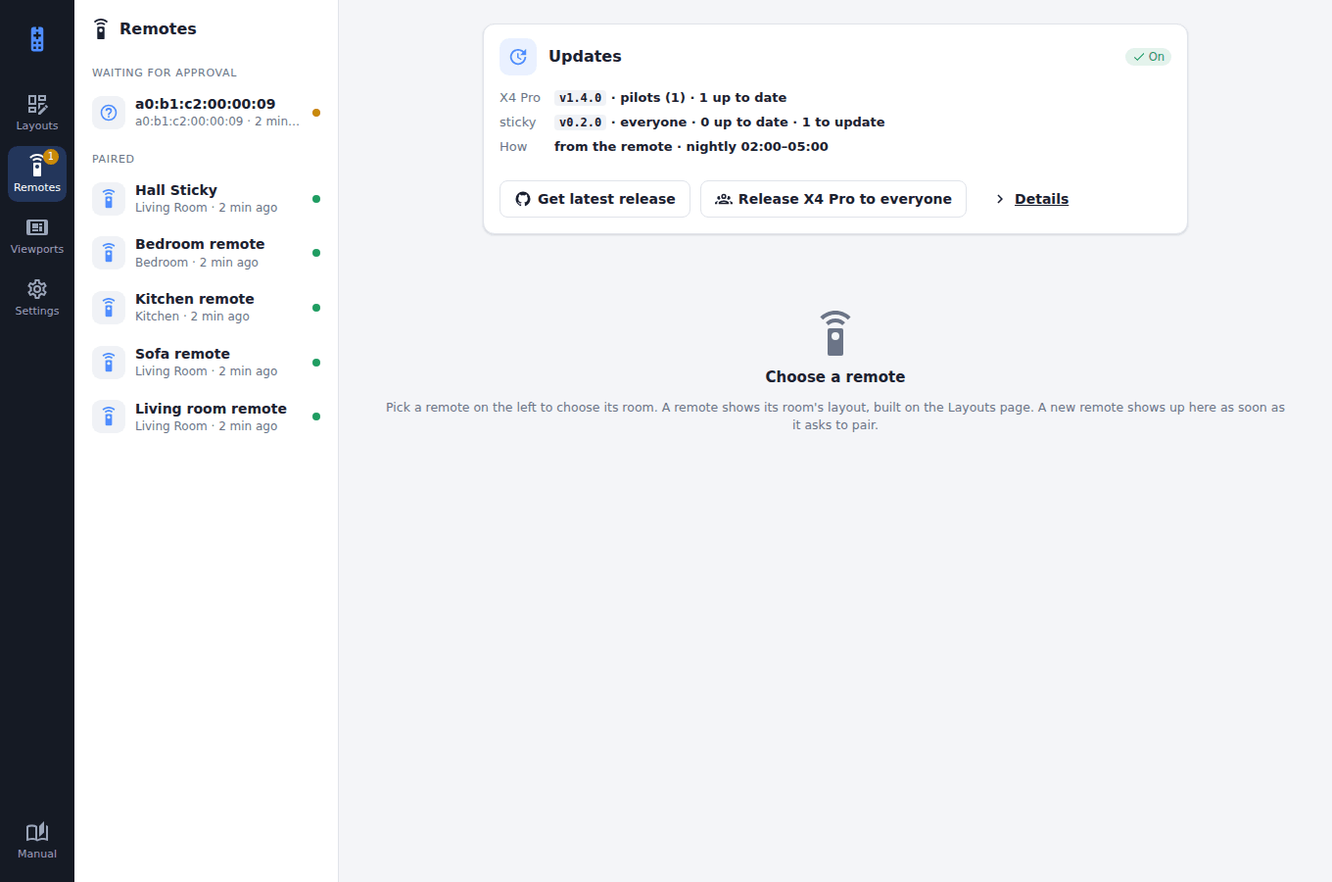
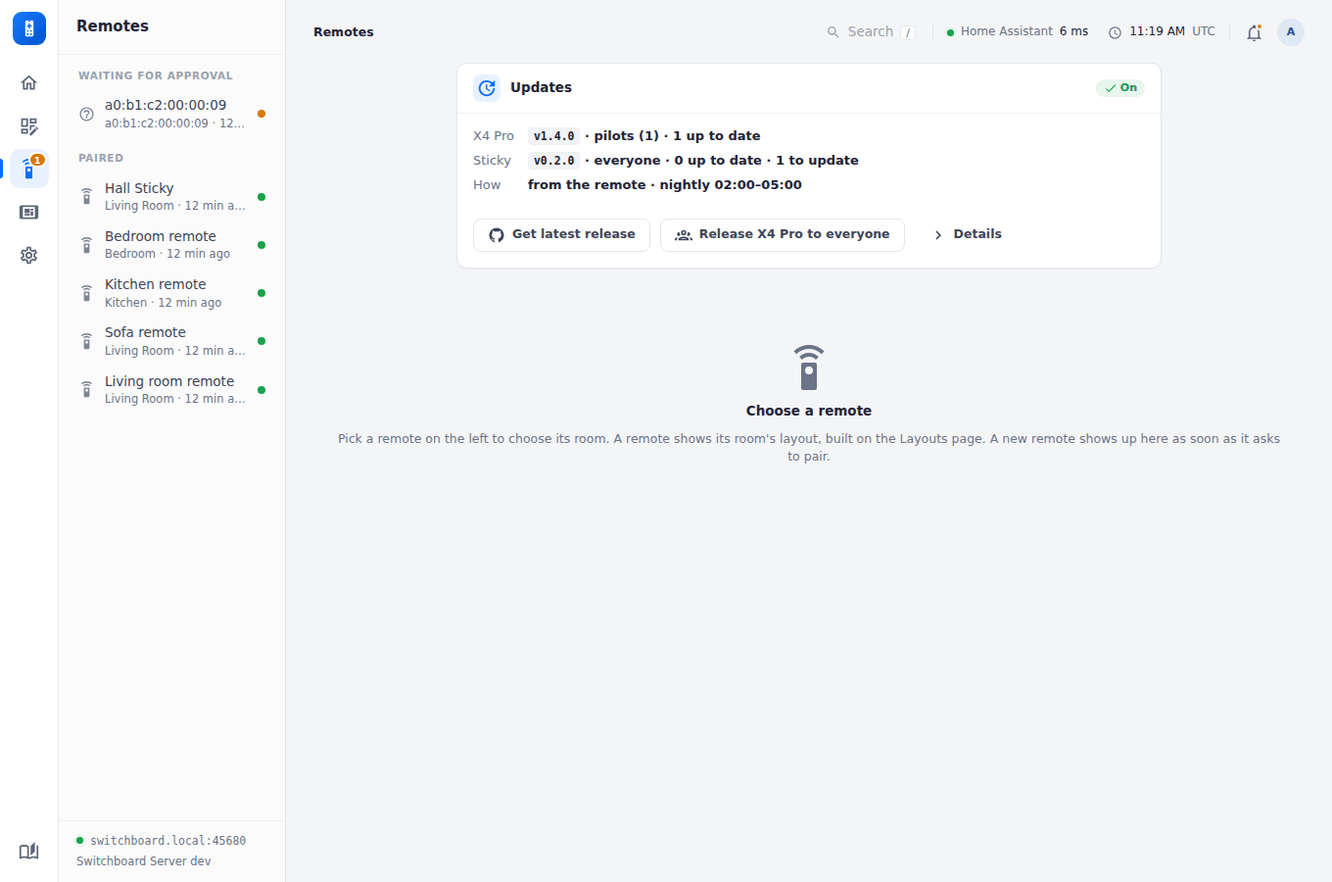
Manual: the new admin UI
Every admin screenshot is retaken from the new UI, and the pages that
describe it are rewritten:

- Home: finding your way around (the rail, each section's column of
  links, the page bar and search), and the dashboard's figures, needs
  attention with its buttons, firmware rollout and the devices table.
- Remote layouts: the pages as a list beside the picked page's settings
  and its live preview; Quick Access and On the remote as parts of
  their own.
- Viewports: the builder, with screens and timing on the left, the
  screen's name, icon and template above its preview, sections as
  lists per column, and a section's settings in a drawer.
- Settings: the three groups, the new Pairing and About pages.
- Updates: the switch, Sources and Get latest releases at the top, and
  the Releases, Devices, Rules and Builds cards.

Settings pages are named as the UI now names them throughout
(Firmware updates, Clock and time zone, Wi-Fi networks, Pairing).

Claude-Session: https://claude.ai/code/session_012u7Tsk3WmSPsMgQDKQsdJ4

diff --git a/docs/manual/server/viewports.md b/docs/manual/server/viewports.md
@@ -2,9 +2,25 @@
 
 A viewport is a colour wall-mounted e-ink display, for example the reTerminal E1002 kitchen panel or a sign beside a meeting room door, running [Switchboard Viewport](../viewport/setup.md). It pairs like a remote but registers as `"type": "viewport"`. The device only draws. Its whole UI is a **viewport layout** (a "dashboard" in the API and data folder). It's built on the Layouts page, before or after any display exists, and assigned to one or more displays on their Viewports page. A display without a layout shows "not set up". Viewports saved before layouts were separate move into a layout of their own automatically at startup.
 
-<figure class="shot"><img src="../images/admin/viewport-layout.png" alt="Building a viewport layout"><figcaption>The kitchen panel's layout in the builder: its screens, then the selected screen's sections beside a live preview from Home Assistant.</figcaption></figure>
+<figure class="shot"><img src="../images/admin/viewport-layout.png" alt="Building a viewport layout"><figcaption>The kitchen panel's layout in the builder: its screens and timing on the left; the picked screen's name, icon and template above its live preview, and each column's sections below.</figcaption></figure>
 
-- **Carousel.** The screens the display's buttons step through, in order (left previous, middle next, the green one home to the first), each with an icon for the footer's carousel marks. Between presses it stays on the current screen and just refreshes it. Optionally, every N minutes (30 by default) it can move to the next screen or go back to the first.
+## The builder
+
+Open a viewport layout from **Layouts**. On the left:
+
+- **Screens:** the screens the display steps through. Drag a row to reorder it, switch one off to skip it, and use its **⋯** menu to move, duplicate or delete it. **Add a screen** adds a sections screen, a meeting room or a room finder (up to 12).
+- **Timing:** what the display does between presses, how often it refreshes, on the clock or not, and quiet hours (below).
+
+On the right, the picked screen. Its **name**, **icon** (its mark in the display's footer) and **template** (Sidebar, Two, Three or Single columns) sit in one row just above its live preview. Under the preview, each column is a list of its sections, headed with its width on the 800-pixel panel (*Sidebar · 250 px*). Drag a section to reorder it within its column; its **⋯** menu moves it to another column, duplicates or removes it. **Add a section** opens the list of types. A meeting room or room finder screen has its own settings under the preview instead.
+
+<figure class="shot"><img src="../images/admin/viewport-layout-section.png" alt="A section's settings in the drawer"><figcaption>Click a section and its settings open in a drawer at the side; the preview outlines it. Esc closes the drawer.</figcaption></figure>
+
+The layout's column also has **Thresholds** (when values change colour: battery critical and low, an imminent departure, recent motion, the climate tolerance) and **Start from or import**, the displays using the layout, and the other layouts. **Save** keeps your changes, and displays pick them up at their next refresh; **Discard** throws them away.
+
+## What a layout holds
+
+
+- **Screens and timing.** The screens the display's buttons step through, in order (left previous, middle next, the green one home to the first), each with an icon for the footer's carousel marks. Between presses it stays on the current screen and just refreshes it. Optionally, every N minutes (30 by default) it can move to the next screen or go back to the first.
 - **Quiet hours.** Overnight (or any span), and all weekend if you like (for an office), the display wakes only every 30, 60, 120 or 240 minutes, and shows a bed icon in its footer. See [Buttons, refresh and sleep](../viewport/buttons.md#quiet-hours).
 - **Screens** come in two kinds:
   - **Sections.** A layout (sidebar + main, two columns, three columns, or a single column) whose columns hold any sections, in any order. The same type can appear any number of times, each with its own settings. The types:
@@ -33,7 +49,7 @@ A viewport is a colour wall-mounted e-ink display, for example the reTerminal E1
     | Spacer | nothing: a gap of the height you set (in px), to move the sections under it down the column, e.g. the home battery to the bottom of the sidebar |
     | Announcements | the newest items of a company RSS or Atom feed (intranet news, SharePoint, a blog): headline, short summary, when posted. The server reads the feed, at most every 10 minutes, and keeps the last good copy if it's down |
 
-  The kitchen dashboard (**Start from… → Kitchen dashboard**) is the panel's own Status, Heating and Security; the demo's kitchen panel adds Energy and Presence. As the display draws them (see [Viewport screens](../viewport/screens.md)):
+  The kitchen dashboard (**Start from or import → Kitchen dashboard**) is the panel's own Status, Heating and Security; the demo's kitchen panel adds Energy and Presence. As the display draws them (see [Viewport screens](../viewport/screens.md)):
 
   <div class="shots wide">
     <figure><div class="panel"><img src="../images/viewport/device/kitchen-panel-status.png" alt="Status"></div><figcaption>Status</figcaption></figure>
@@ -54,7 +70,7 @@ A viewport is a colour wall-mounted e-ink display, for example the reTerminal E1
 
 **Conditional sections.** Any section can show only some of the time: *Now playing* only while one of its players is playing, or any section only while an entity matches (e.g. the alarm panel section only while armed). A hidden section is simply left out, so the rest of its column closes up; a calendar in the same column shrinks to fewer lines (*Lines while a conditional section shows*, default 2) to make room while it's there. While a conditional section shows, the display wakes every few minutes (3 by default) to keep it current, and goes back to its normal refresh once it's gone — a viewport is on battery, so a section appears at the next wake after its condition starts, not the instant it does. The server does all of this: the display only draws what it's sent.
 
-The layout builder shows a live 800×480 preview of each screen, in the panel's six colours and with its own colour weather art, from Home Assistant's current state and including unsaved changes. **Start from…** loads the kitchen panel's defaults or a meeting-room sign, or imports an existing panel's own settings.
+The layout builder shows a live 800×480 preview of each screen, in the panel's six colours and with its own colour weather art, from Home Assistant's current state and including unsaved changes. **Start from or import** loads the kitchen panel's defaults or a meeting-room sign, or imports an existing panel's own settings.
 
 **The server does all the evaluating.** `GET /api/viewports/me/state` returns every screen's finished values: colour indices (0 white, 1 black, 2 red, 3 yellow, 4 green, 5 blue), which icon to draw, alert sentences, times, countdowns and graph buckets. So the device needs no Home Assistant template sensors and no rules of its own. Per refresh, the server makes one `GET /api/states` for every entity. It adds only what the screens need beyond that — weather forecasts, calendar events, and one history request per energy graph — all in parallel. Calendar links are read by the server itself (each at most every 2 minutes), so a layout made only of meeting rooms on calendar links needs no Home Assistant at all.
 

diff --git a/docs/manual/server/remote-layouts.md b/docs/manual/server/remote-layouts.md
@@ -2,21 +2,31 @@
 
 Every UI is defined on the server, before any device exists: dumb hardware, server control. A device is only ever *assigned* one: a remote to a room, a viewport to a [viewport layout](viewports.md).
 
-<figure class="shot"><img src="../images/admin/layouts.png" alt="The Layouts page"><figcaption><b>Layouts</b>: remote layouts (one per room) at the top, viewport layouts below, each with the devices using it.</figcaption></figure>
+<figure class="shot"><img src="../images/admin/layouts.png" alt="The Layouts page"><figcaption><b>Layouts</b>: remote layouts (one per room) and viewport layouts, each with the devices using it, and a row at the bottom of each to create one.</figcaption></figure>
+
+The **Layouts** column lists every layout, so any is a click away. Under **Office** are [adding many meeting rooms](../viewport/office.md#putting-up-many-at-once) and approving the displays waiting to pair, together. **Import** loads a room from a JSON file (a room's editor downloads one).
 
 A **remote layout** is one room: its Home Assistant entities, one card per page, and what its remotes show. Entity fields search Home Assistant as you type (through the server, which holds the token), show each entity's state, flag ids Home Assistant doesn't know, and fill in names, icons and which light controls a light supports. With Home Assistant unreachable they're plain text boxes.
 
-## The carousel
-
-<figure class="shot"><img src="../images/admin/remote-layout-carousel.png" alt="The Carousel card"><figcaption>The pages the room's remotes show, in order. Drag to reorder; switch one off to skip it; click one to set it up.</figcaption></figure>
-
-The same card sets how often remotes refresh, and **On the clock**: a 15, 30 or 60 minute refresh lands on the hour and its halves or quarters, each remote a few seconds after the last.
-
 ## The pages
 
-Each page has its own card: the Status page's weather and indoor climate, then lighting, blinds, music, TV, Xbox, the receiver and climate.
+<figure class="shot"><img src="../images/admin/remote-layout.png" alt="A remote layout"><figcaption>A room's remote layout: its pages on the left, the picked page's settings in the middle, and that page as a remote in the room would show it now.</figcaption></figure>
 
-<figure class="shot"><img src="../images/admin/remote-layout-lighting.png" alt="The Lighting card"><figcaption>Lighting: the room's light group and which controls it has, each light, and the scenes.</figcaption></figure>
+Opening a room shows its pages: what every remote in the room swipes through, in order.
+
+- **Reorder** a page by dragging its row, or with the arrows on the picked row.
+- **Switch a page off** to skip it. Switched-off pages are listed under **Off**; switching one back on adds it to the end. Status is always on.
+- **Click a page** to set it up beside the list. A warning under a page's name says what it's missing, such as *No lights in this room*.
+
+The preview on the right is the picked page as a remote in this room would draw it, from the room as it stands in the editor (saved or not) and Home Assistant's state now. Changes show in it within a second.
+
+The room's column also has **Quick Access** and **On the remote** (below), the remotes in the room, and the other layouts. **Save** keeps your changes; **Discard** throws them away. The download button saves the room as JSON.
+
+## What each page needs
+
+Each page has its own settings: the Status page's weather and indoor climate, then lighting, blinds, music, TV, Xbox, the receiver and climate.
+
+<figure class="shot"><img src="../images/admin/remote-layout-lighting.png" alt="The Lighting card"><figcaption>Lighting picked: the room's light group and which controls it has, each light, and the scenes, with the Lighting page beside them.</figcaption></figure>
 
 - **Lighting:** a group for the whole room, with brightness, colour temperature, colour and effects switched on as the lights support them, then single lights and scenes, each with an optional icon.
 - **Blinds:** a group for the whole room, then each blind.
@@ -26,18 +36,16 @@ Each page has its own card: the Status page's weather and indoor climate, then l
 - **Receiver:** an Enigma2 box's media player and up to six favourite channels. It works from Home Assistant's Enigma2 integration alone (channel, programme on now, and the channel's picon if the integration's "Use channel icon" is on). Give the room the box's address (its OpenWebif, such as `http://192.168.1.50` or `http://root:password@vu.local`) and the server also reads the programme on next and each favourite's picon; **Check** shows what the box reports. The address stays on the server: remotes never see it.
 - **Climate:** the thermostat, and any other temperature sensors to show.
 
-## Settings on the remote
+## On the remote
 
-Under **Refresh & settings**, **Developer menu** (on by default) says whether the room's remotes have the Developer menu in their Settings: the pixel grid, stay awake, the Quick Access strips switch, the button checker, the error screens and the hard reset. Switch it off for remotes that aren't for tinkering. Hidden, those switches stop counting too, so nobody can leave a remote awake, or with a grid on it, by a switch they can't get back to. A remote customised on its own page has its own switch. It takes effect at each remote's next refresh.
+<figure class="shot"><img src="../images/admin/remote-layout-settings.png" alt="On the remote"><figcaption><b>On the remote</b>: refresh, the Developer menu, and the room's connection.</figcaption></figure>
+
+**Refresh** sets how often the room's remotes wake to fetch new state (every 15, 30 or 60 minutes); less often means a longer battery. **On the clock** lands each refresh on the hour and its halves or quarters, each remote a few seconds after the last.
+
+**Developer menu** (on by default) says whether the room's remotes have the Developer menu in their Settings: the pixel grid, stay awake, the Quick Access strips switch, the button checker, the error screens and the hard reset. Switch it off for remotes that aren't for tinkering. Hidden, those switches stop counting too, so nobody can leave a remote awake, or with a grid on it, by a switch they can't get back to. A remote customised on its own page has its own switch. It takes effect at each remote's next refresh.
 
 ## Quick Access
 
-<figure class="shot"><img src="../images/admin/remote-layout-quick-access.png" alt="The Quick Access card"><figcaption>The buttons a Home tap shows on the remote.</figcaption></figure>
+<figure class="shot"><img src="../images/admin/remote-layout-quick-access.png" alt="The Quick Access card"><figcaption><b>Quick Access</b>: the buttons a Home tap shows on the remote, with the screen beside them.</figcaption></figure>
 
 Each button opens a page, and can have a quick action in its bottom strip: **toggle** an entity, or **run** a Home Assistant service (with optional JSON data). Without any buttons, remotes show the built-in Jump to grid. See [Quick Access](../remote/navigation.md) for how they look on the remote.
-
-## Screen previews
-
-<figure class="shot"><img src="../images/admin/remote-layout-previews.png" alt="Screen previews"><figcaption>What a remote in this room would show, page by page, from the room as it stands in the editor (saved or not) and Home Assistant now.</figcaption></figure>
-
-At the bottom of the editor, a preview of each page, close to what the remote draws. Click one to jump to its card.

diff --git a/docs/manual/server/remote-updates.md b/docs/manual/server/remote-updates.md
@@ -1,8 +1,10 @@
 # Updates (over the air)
 
-**Settings → Updates** sends new firmware to remotes and displays, and to any other device that asks, over Wi-Fi. It's **off until you switch it on**.
+**Settings → Firmware updates** sends new firmware to remotes and displays, and to any other device that asks, over Wi-Fi. It's **off until you switch it on**.
 
-<figure class="shot"><img src="../images/admin/settings-updates.png" alt="Settings, Updates"><figcaption><b>Settings → Updates</b>: each board's release and how it rolls out, and every device's state.</figcaption></figure>
+<figure class="shot"><img src="../images/admin/settings-updates.png" alt="Settings, Updates"><figcaption><b>Settings → Firmware updates</b>: each board's release, its stage and how many have it; every device's state, and the pilots; the rules; and the builds.</figcaption></figure>
+
+The switch at the top turns updates on and off. Beside it, **Sources** opens the list of GitHub repositories, and **Get latest releases** adds the newest release from each.
 
 ## Boards
 
@@ -16,16 +18,18 @@ Builds and remotes from before boards count as `x4pro`.
 
 ## Releasing
 
-1. **Add a build**: upload a `switchboard-<board>-app-<version>.bin`, or pick a release from one of the **GitHub repositories** listed on the page.
+<figure class="shot"><img src="../images/admin/settings-updates-sources.png" alt="Firmware sources"><figcaption><b>Sources</b>: the repositories releases come from. <b>Pick a release…</b> lists one repository's releases to add one.</figcaption></figure>
+
+1. **Add a build**: press **Get latest releases**, pick one release under **Sources → Pick a release…**, or **Upload .bin** a `switchboard-<board>-app-<version>.bin` on the Builds card.
    - The list starts with the Switchboard firmware and [Switchboard Viewport](../viewport/updates.md) (`e1002`). Add others as `owner/name` or their GitHub URL: a fork, or the repository of another kind of device.
    - A release carries `switchboard-<board>-app-<version>.bin` and its `.sha256` for each board it builds (older ones, `switchboard-app-<version>.bin`, are the X4 Pro's). Every image is checked against its published checksum and against the board and version inside it; if any fails, none of the release is added.
-   - **Get latest release** checks every repository in the list.
+   - **Get latest releases** checks every repository in the list, top first; the arrow in **Sources** moves one to the top.
    - Only listed repositories are ever read, and only when you press a button.
    - The server only accepts a Switchboard app image for an ESP32 chip that fits the update slot, and takes the board and version from the image itself. A build from uncommitted changes (`-dirty`) is refused.
-2. **Choose each board's release**: the version its devices should run. An older build rolls them back to it.
-3. **Pilot first**: tick a device or two as pilots. A new release goes only to that board's pilots. When they've updated and still work, press **Release to everyone** for that board.
-4. **How devices install it**: from **Settings → Device info → Check for update** on the remote (can be switched off here), and/or **on a schedule**: during a window you set, on a device's normal timer wake.
-5. **Update now**: while devices are still due a release, the Home page's Devices card has **Update N remotes to vX now**, one row per board (named when there's more than one). Each of them installs it at its next timer wake (within its refresh interval), whatever the schedule, and even with no schedule set. It keeps to the minimum battery, and to the board's stage: while the release is with the pilots the button updates just them, and **Update all N now (skip pilot)** releases it to everyone in the same step (after asking), so every device of that board not on it installs it at its next wake. A device that tries and fails isn't asked again at every wake; press the button again to retry. **Cancel** takes it back, and choosing another release clears it. Needs remote firmware that knows about it (later than v0.2.3); older remotes keep to the schedule.
+2. **Choose each board's release** in the Releases table: the version its devices should run. An older build rolls them back to it. When there's a newer build than the release, the row offers **Send vX to pilots**.
+3. **Pilot first**: tick a device or two as pilots in the Devices table. A new release goes only to that board's pilots. When they've updated and still work, press **Release to everyone** for that board.
+4. **How devices install it** (the Rules card): from **Settings → Device info → Check for update** on the remote (**From the remote**), and/or **on a schedule**: during a window you set, on a device's normal timer wake.
+5. **Update now**: while devices are still due a release, the Home page's **Firmware rollout** card has **Update N remotes to vX now**, one row per board (named when there's more than one). Each of them installs it at its next timer wake (within its refresh interval), whatever the schedule, and even with no schedule set. It keeps to the minimum battery, and to the board's stage: while the release is with the pilots the button updates just them, and **Update all N now (skip pilot)** releases it to everyone in the same step (after asking), so every device of that board not on it installs it at its next wake. A device that tries and fails isn't asked again at every wake; press the button again to retry. **Cancel** takes it back, and choosing another release clears it. Needs remote firmware that knows about it (later than v0.2.3); older remotes keep to the schedule.
 
 On the device:
 - **Battery:** it needs the minimum battery set here (30% by default).
@@ -49,7 +53,7 @@ A device from another repository takes part by doing what the Switchboard firmwa
 | **Report** | `POST /api/firmware/report` with `{version, from, ok, error, board}` after each attempt. |
 | **Releases** | Publish `switchboard-<board>-app-<tag>.bin` and `switchboard-<board>-app-<tag>.bin.sha256` (from `sha256sum`) on each GitHub release, so this server can add them. |
 
-Then add its repository to the list here. Its builds show under its own board, and its devices under Devices.
+Then add its repository under **Sources**. Its builds show under its own board, and its devices under Devices.
 
 ## Where builds are kept
 

diff --git a/docs/manual/viewport/office.md b/docs/manual/viewport/office.md
@@ -86,17 +86,17 @@ For signs that need to last longer, turn the timeline off, or refresh every hour
 
 ## Putting up many at once
 
-1. **Set the time zone.** With no Home Assistant, choose the office's in **Settings → Clock → Time zone**. Otherwise the server runs on UTC and every sign's times are out; the Home page warns about this.
+1. **Set the time zone.** With no Home Assistant, choose the office's in **Settings → Clock and time zone**. Otherwise the server runs on UTC and every sign's times are out; the Home page warns about this.
 2. **Install the firmware** on each display from the [browser flasher](../../). Do it once per display, over USB.
 3. **Put each one on the Wi-Fi.** Each display shows two QR codes; join its hotspot with a phone and pick the network ([Setting up](setup.md#2-connect-it-to-wi-fi)). This takes about a minute per display.
    - Displays need a network with a password (WPA2 or WPA3 Personal). They can't sign in to enterprise Wi-Fi (802.1X). Many offices have an IoT or devices network for this.
    - The network must be able to reach the server. If it's a separate network (VLAN), multicast usually doesn't cross to the server's, so the display can't find the server by itself. Type the server's address in **Switchboard Server** on the setup page, for example `10.20.0.5:45678`.
-   - Once paired, displays also use every network saved under the server's **Settings → Wi-Fi**.
+   - Once paired, displays also use every network saved under the server's **Settings → Wi-Fi networks**.
 4. **Write down each display's MAC address.** A display shows it on its screen while it waits to be approved.
-5. **Add the rooms.** On the **Layouts** page, under **Viewport layouts**, press **Add many meeting rooms** and paste the list of rooms: one per line, columns straight from a spreadsheet.
+5. **Add the rooms.** Under **Layouts**, press **Add many meeting rooms** (in the column, under **Office**) and paste the list of rooms: one per line, columns straight from a spreadsheet.
 6. **Hang them up.** Each sign starts as soon as it's approved, or at its next check (every 2 minutes) if it was already waiting.
 
-<figure class="shot"><img src="../images/admin/meeting-rooms-bulk.png" alt="Add many meeting rooms"><figcaption><b>Layouts → Add many meeting rooms</b>: each line read as you type, and anything wrong with it shown before anything is made.</figcaption></figure>
+<figure class="shot"><img src="../images/admin/meeting-rooms-bulk.png" alt="Add many meeting rooms"><figcaption><b>Layouts → Office → Add many meeting rooms</b>: each line read as you type, and anything wrong with it shown before anything is made.</figcaption></figure>
 
 Each line is a room's name, then its calendar, then optionally an occupancy sensor and the display's MAC address. After the name, the columns can be in any order: the server recognises a calendar link, a `calendar.` entity, a sensor and a MAC address. Separate them with commas, semicolons or tabs; a header row is skipped.
 
@@ -116,7 +116,7 @@ Switch on **Approve the listed displays now** and each one starts the moment it 
 
 Running it again with the same room names updates those rooms' signs rather than making new ones. That's the way to change many calendars at once, or to add a room to everyone's list. It sets each sign's room and other-rooms screens afresh, with the office timing; any other screens you've added to a sign stay.
 
-**Displays already waiting.** When two or more displays are waiting to pair, the **Layouts** page lists them together. Give each a name and a layout, and approve them in one go. Each display shows its MAC address on its screen while it waits, so you can tell which is which.
+**Displays already waiting.** **Layouts → Office → Displays waiting** lists every display waiting to pair (the Layouts page shows them too, when there are two or more). Give each a name and a layout, and approve them in one go. Each display shows its MAC address on its screen while it waits, so you can tell which is which.
 
 **Why a layout per room.** Signs that look the same still need a layout each, because each has its own room's calendar. The room list makes them for you. To change something on every sign, such as the status words, edit the signs' layouts; to change the rooms, run the list again.
 
@@ -124,4 +124,4 @@ Running it again with the same room names updates those rooms' signs rather than
 
 - **Keep the server on the office network.** Don't expose it to the internet ([Security](../server/security.md)): it holds the calendar links, and approves displays.
 - **Approving ahead is a trade-off.** A display approved by MAC address before it connects saves a trip to the server. But anyone who copies that address onto another device on the same network gets what that sign shows: the room's bookings, no more. Only approve ahead on a network you control, or approve each display when it appears.
-- **No new devices.** To stop new devices asking to pair once the signs are up, switch off **Settings → Security → Accept new devices**. Displays you've listed still connect.
+- **No new devices.** To stop new devices asking to pair once the signs are up, switch off **Settings → Pairing → New devices**. Displays you've listed still connect.

diff --git a/docs/manual/server/settings.md b/docs/manual/server/settings.md
@@ -1,6 +1,14 @@
 # Settings
 
-Settings are shared by every room and device. The server's clock is shown beside your browser's on every tab.
+Settings are shared by every room and device. Their pages are listed down the Settings column in three groups:
+
+| Group | Pages |
+|---|---|
+| **Connections** | Home Assistant, Wi-Fi networks, Clock and time zone |
+| **Devices** | Firmware updates, Pairing, Theme |
+| **Server** | Security, Account, About |
+
+The server's time and time zone are always shown at the top of the page; click them for the Clock page.
 
 ## Home Assistant
 
@@ -8,34 +16,44 @@ Settings are shared by every room and device. The server's clock is shown beside
 
 The address, port and long-lived access token the server uses to reach Home Assistant. The server fetches Home Assistant's state for every device; a remote only asks Home Assistant itself when the server can't reach it.
 
-The same tab can **publish every device's battery to Home Assistant** as sensors, off by default. See [Battery life](battery-life.md#in-home-assistant).
+The same page can **publish every device's battery to Home Assistant** as sensors, off by default. See [Battery life](battery-life.md#in-home-assistant).
 
-## Wi-Fi
+## Wi-Fi networks
 
 <figure class="shot"><img src="../images/admin/settings-wifi.png" alt="Settings, Wi-Fi"><figcaption>The network remotes join, and the networks they show as QR codes.</figcaption></figure>
 
 The network remotes join, and the household's networks, which the remote's [Wi-Fi page](../remote/screens.md#wi-fi) shows as join-QR codes for guests.
 
-## Clock
+## Clock and time zone
 
 <figure class="shot"><img src="../images/admin/settings-clock.png" alt="Settings, Clock"><figcaption>The time server, and whether the server's clock agrees with your browser's.</figcaption></figure>
 
-Remotes set their clock from the server, so this tab says if the server's clock drifts or its time zone differs from your browser's. It also sets the NTP server devices use.
+Remotes set their clock from the server, so this page says if the server's clock drifts or its time zone differs from your browser's. It also sets the NTP server devices use.
 
 **Time zone.** Every time a remote or viewport shows (clocks, calendars, meetings, quiet hours) is in the server's time zone. Leave it on **Automatic** and the server takes Home Assistant's, re-checked hourly. Without Home Assistant (meeting-room signs on calendar links, for example), choose it here: a container is otherwise on UTC, and the Home page warns that times are shown in it. `TZ` in the server's environment wins over this setting. A change takes effect at once, and on each display at its next refresh.
 
-## Theme and Updates
+## Firmware updates and Theme
 
-See [Theme](theme.md) and [Updates](remote-updates.md).
+See [Updates](remote-updates.md) and [Theme](theme.md).
+
+## Pairing
+
+<figure class="shot"><img src="../images/admin/settings-pairing.png" alt="Settings, Pairing"><figcaption>Whether new devices may ask to pair, and the address devices find the server at.</figcaption></figure>
+
+**New devices** says whether a device the server has never seen may ask to pair (see [Security](security.md#new-devices)). The page also shows the address and service devices find the server by. Where multicast doesn't reach, such as another VLAN, type that address on the device's setup page.
 
 ## Security
 
-<figure class="shot"><img src="../images/admin/settings-security.png" alt="Settings, Security"><figcaption>Allowed networks, sign-in, and new devices.</figcaption></figure>
+<figure class="shot"><img src="../images/admin/settings-security.png" alt="Settings, Security"><figcaption>Allowed networks, and sign-in.</figcaption></figure>
 
-Which networks the server answers, how sign-in is protected, and whether new devices may ask to pair. See [Security](security.md).
+Which networks the server answers, and how sign-in is protected. See [Security](security.md).
 
 ## Account
 
-<figure class="shot"><img src="../images/admin/settings-account.png" alt="Settings, Account"><figcaption>Changing the admin password.</figcaption></figure>
+<figure class="shot"><img src="../images/admin/settings-account.png" alt="Settings, Account"><figcaption>Changing the admin password, and signing out.</figcaption></figure>
 
 Change the admin password. If `ADMIN_PASSWORD` is set on the container, it replaces the password on every restart (see [Pairing & auth](pairing-and-auth.md)).
+
+## About
+
+<figure class="shot"><img src="../images/admin/settings-about.png" alt="Settings, About"><figcaption>This server's version, address and data folder, and where to get help.</figcaption></figure>

diff --git a/docs/manual/server/home.md b/docs/manual/server/home.md
@@ -1,15 +1,31 @@
 # Home
 
-Open the server at `http://<server>:45678` and sign in. The menu down the left has **Layouts**, **Remotes**, **Viewports** and **Settings**; the Switchboard logo at the top is the Home page.
+Open the server at `http://<server>:45678` and sign in.
+
+## Finding your way around
+
+The admin site has three parts, left to right:
+
+- **The rail:** the five sections, **Home**, **Layouts**, **Remotes**, **Viewports** and **Settings**, with the manual at the bottom. A number on Remotes counts devices waiting for approval; one on Home counts critical problems.
+- **The section's column:** its own links, stacked. Home's views and shortcuts; every layout, or inside a layout its parts; each remote or viewport; the settings pages, in groups. At the bottom, the address devices find the server at, and its version.
+- **The page.** Above it, on the page's background: where you are (click a step to go back to it), **Search**, Home Assistant's response time, the server's time and time zone, a bell for what needs attention, and the account.
+
+<figure class="shot"><img src="../images/admin/search.png" alt="Search"><figcaption><b>Search</b> (press <kbd>/</kbd> or Ctrl-K anywhere): jump to any page, layout or device by name or MAC address.</figcaption></figure>
+
+## The dashboard
 
 <figure class="shot"><img src="../images/admin/home.png" alt="The Home page"><figcaption>Home, in the demo: one remote waiting for approval and one low battery.</figcaption></figure>
 
-Home shows how the whole setup is doing, and what needs attention, worst first. Each item links to where it's fixed.
+Home shows how the whole setup is doing, and what needs attention, worst first.
 
-- **At a glance:** remotes and viewports online, devices waiting for approval, low batteries, and Home Assistant's response time.
-- **Needs attention:**
+- **Across the top:** remotes and viewports online, devices waiting for approval, low batteries, and how many devices have firmware to install. Click one to go to it.
+- **Needs attention**, each with the button that fixes it (**Approve**, **View**, **Fix**…):
   - critical and low batteries (10% and 20%), and any device with about 3 days or less left ([Battery life](battery-life.md));
   - devices not heard from (a remote in a day, a viewport in three of its refresh intervals), weak Wi-Fi, and devices without a room or layout;
   - remotes on different firmware versions, and failed [updates](remote-updates.md);
   - Home Assistant not set up, unreachable, or failing requests in the last hour (with the recent errors), and any entity a layout names that Home Assistant doesn't have (a typo, or one renamed in Home Assistant).
-- **Devices:** every device with its room or layout, battery and the days it has left, Wi-Fi signal, firmware (an icon shows an update waiting, installed or failed) and when it was last seen.
+- **Firmware rollout:** each board's release, whether it's with the pilots or everyone, and how many of its devices have it, with **Update now** buttons. See [Updates](remote-updates.md).
+- **Devices:** every device with its status, room or layout, battery and the days it has left, Wi-Fi signal, firmware (an icon shows an update waiting, installed or failed) and when it was last seen. Filter to remotes, viewports, low batteries or devices with a problem, or type part of a name. Click a row to open the device.
+- **Home Assistant:** when it last answered, requests in the last hour, the average response, and recent errors.
+
+The column's links jump to each part: **Needs attention**, **Devices**, **Batteries** (the devices table, lowest battery first) and **Home Assistant**.

diff --git a/docs/manual/server/remotes.md b/docs/manual/server/remotes.md
@@ -1,6 +1,6 @@
 # Remotes
 
-**Remotes** lists every handheld remote beside the menu. Devices waiting for approval are at the top.
+**Remotes** lists every handheld remote in its column, with its room and when it was last seen; the dot beside it is green while it's online. Devices waiting for approval are at the top.
 
 <figure class="shot"><img src="../images/admin/remotes.png" alt="The Remotes page"><figcaption><b>Remotes</b>, with none picked: the list, and the summary of <a href="remote-updates.html">remote updates</a>.</figcaption></figure>
 
@@ -8,7 +8,7 @@
 
 <figure class="shot"><img src="../images/admin/remote.png" alt="A remote's page"><figcaption>One remote: when it was last seen, its address, battery and days left, Wi-Fi, firmware (and any update), its room, and managing it.</figcaption></figure>
 
-- **Room:** which room's layout it uses. **Customise for this remote** gives it its own pages, Quick Access and refresh, starting from the room's, without changing the room.
+- **Room:** which room's layout it uses. **Customise for this remote** gives it its own pages (the same list as a [remote layout's](remote-layouts.md#the-pages): drag to reorder, switch off to skip), Quick Access and refresh, starting from the room's, without changing the room. **Use the room's layout instead** goes back.
 - **Manage:** make it a viewport instead, **Revoke** it (its token stops working at once; it has to be approved again), or **Forget** it (the record, and its [battery history](battery-life.md), are deleted).
 
 ## Approving a new one

diff --git a/docs/manual/server/pairing-and-auth.md b/docs/manual/server/pairing-and-auth.md
@@ -12,7 +12,7 @@ This stays plain HTTP by design (LAN-only, same trust model as everything else h
 
 A physical remote pairs with this server once: on first boot it registers itself by MAC address and shows up under **Remotes** as waiting for approval. Approve it there (optionally assigning its room in the same step — that's also the MAC → default room mapping) and the server hands it a long-lived token, which it stores and sends on every request from then on. A revoked or deleted device's old token stops working immediately.
 
-To stop strangers asking at all, switch off **Accept new devices** (Settings → Security; see [Security](security.md#new-devices)): known devices keep working, and nothing new appears until you switch it back on. The same tab sets how long a sign-in lasts and pauses sign-in after 5 wrong passwords.
+To stop strangers asking at all, switch off **Accept new devices** (**Settings → Pairing**; see [Security](security.md#new-devices)): known devices keep working, and nothing new appears until you switch it back on. The same tab sets how long a sign-in lasts and pauses sign-in after 5 wrong passwords.
 
 If a paired device ever loses its stored token (e.g. a factory reset), it re-registers with the same MAC and gets a fresh token automatically — no need to re-approve it, since the trust decision was already made the first time.
 

diff --git a/docs/manual/viewport/updates.md b/docs/manual/viewport/updates.md
@@ -2,7 +2,7 @@
 
 <figure class="shot"><div class="panel"><img src="../images/viewport/device/system-updating.png" alt="Updating"></div><figcaption>Installing an update</figcaption></figure>
 
-Viewports update over Wi-Fi from the server, the same way remotes do. Firmware always comes from your own server, never straight from the internet. Everything is set up in the server's **Settings → Remote updates**, which covers every kind of device. Each build is for one board, and a viewport's board is `e1002`. See [Remote updates](../server/remote-updates.md) for releases, pilot devices and the update window.
+Viewports update over Wi-Fi from the server, the same way remotes do. Firmware always comes from your own server, never straight from the internet. Everything is set up in the server's **Settings → Firmware updates**, which covers every kind of device. Each build is for one board, and a viewport's board is `e1002`. See [Remote updates](../server/remote-updates.md) for releases, pilot devices and the update window.
 
 ## Getting a release onto the server
 

diff --git a/docs/manual/server/configuration.md b/docs/manual/server/configuration.md
@@ -12,7 +12,7 @@
 | `DISABLE_MDNS` | off | Set `1` to turn off discovery entirely |
 | `ADMIN_PASSWORD` | unset | Seeds/overwrites the admin UI's password on every start. Leave unset to set it once from the UI's own setup screen instead. |
 | `ALLOWED_NETWORKS` | unset | Replaces Settings → Security's allowed networks while set: comma-separated ranges or addresses, or `any` to turn the check off. The way back in if a list ever shuts you out. |
-| `TZ` | unset | The time zone every device's times are shown in (e.g. `Europe/Dublin`). Wins over **Settings → Clock → Time zone**; without either, the server takes Home Assistant's. |
+| `TZ` | unset | The time zone every device's times are shown in (e.g. `Europe/Dublin`). Wins over **Settings → Clock and time zone**; without either, the server takes Home Assistant's. |
 | `TRUST_PROXY` | unset | Behind a reverse proxy: its address(es), comma-separated (or `loopback`). The allowed networks then check the address the proxy forwards, not the proxy's. |
 
 ## On Unraid

diff --git a/docs/manual/viewport/screens.md b/docs/manual/viewport/screens.md
@@ -4,7 +4,7 @@ A viewport draws whatever its [layout](../server/viewports.md) says, in the pane
 
 ## The kitchen dashboard
 
-The kitchen panel's three screens. **Start from… → Kitchen dashboard** in the layout builder sets them up, then you swap the example entities for your own. The firmware draws them pixel for pixel the same as the panel's original firmware (its tests check this against the same Home Assistant).
+The kitchen panel's three screens. **Start from or import → Kitchen dashboard** in the layout builder sets them up, then you swap the example entities for your own. The firmware draws them pixel for pixel the same as the panel's original firmware (its tests check this against the same Home Assistant).
 
 <div class="shots wide">
   <figure><div class="panel"><img src="../images/viewport/device/kitchen-panel-status.png" alt="Status"></div><figcaption>Status</figcaption></figure>

diff --git a/docs/manual/remote/updates.md b/docs/manual/remote/updates.md
@@ -1,6 +1,6 @@
 # Updates
 
-Remotes can update their firmware over Wi-Fi from the server. It's off until it's switched on in the server's **Settings → Updates**, and firmware always comes from your own server, never straight from the internet. See [Updates](../server/remote-updates.md) for choosing a release, pilot remotes and the schedule.
+Remotes can update their firmware over Wi-Fi from the server. It's off until it's switched on in the server's **Settings → Firmware updates**, and firmware always comes from your own server, never straight from the internet. See [Updates](../server/remote-updates.md) for choosing a release, pilot remotes and the schedule.
 
 <div class="shots">
   <figure><div class="remote"><img src="../images/remote/update-offer.png" alt="An update is ready"></div><figcaption>An update is ready</figcaption></figure>
